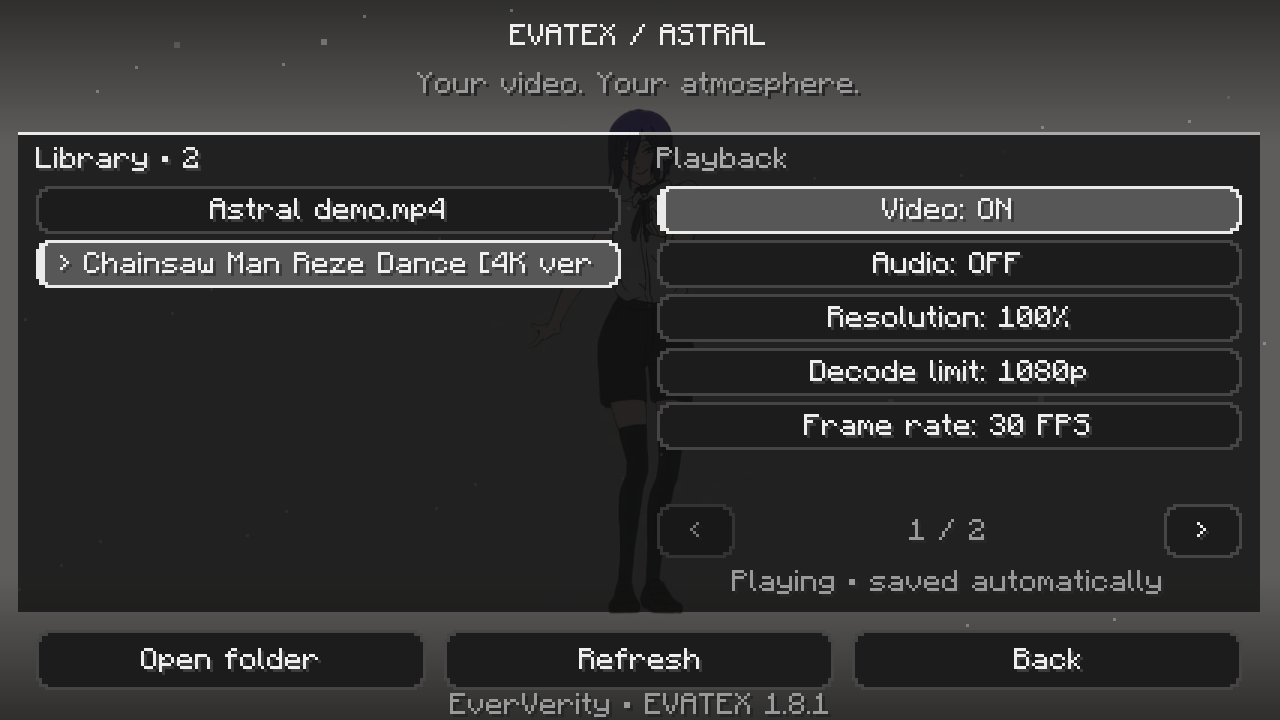
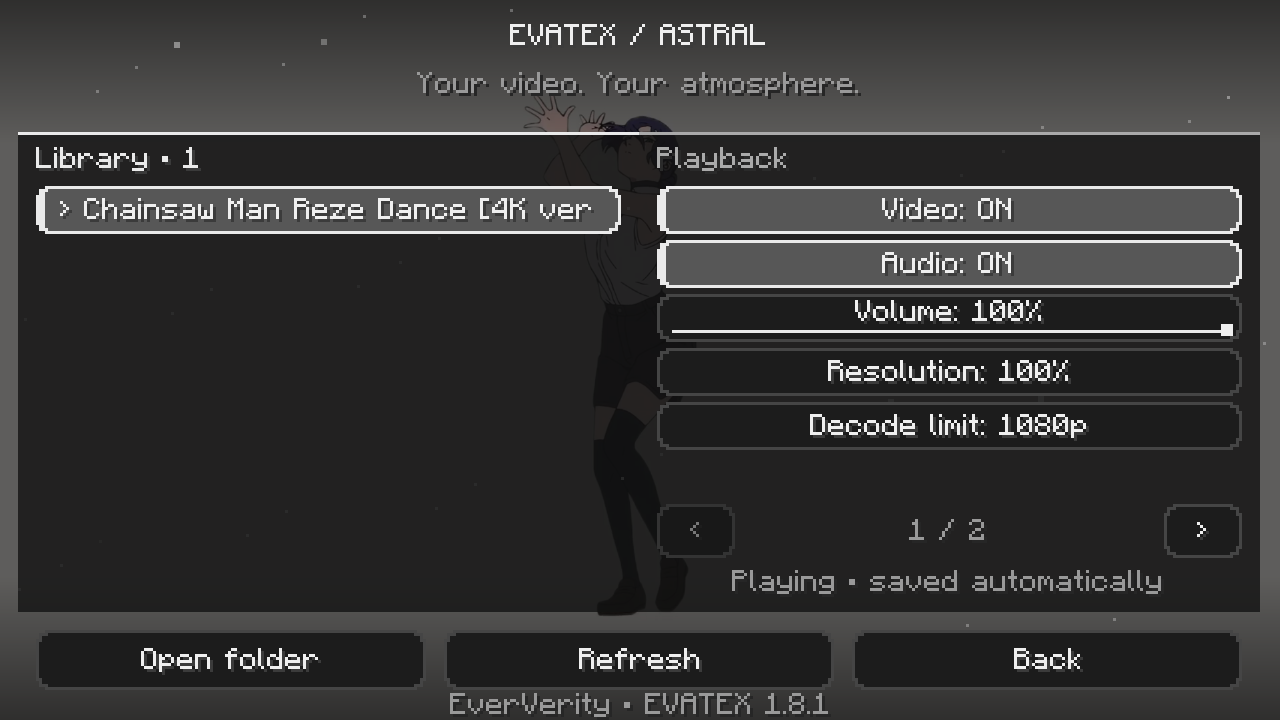
Document verified desktop playback and refresh Astral volume screenshot

diff --git a/VALIDATION.md b/VALIDATION.md
@@ -8,6 +8,8 @@ The user's supplied video is 1920×1080 H.264 at 60 FPS with stereo AAC audio, 1
 
 Sound uses stereo 48 kHz PCM from the same FFmpeg input as video. A 32 KiB bounded output buffer is primed before playback to absorb short scheduling delays. A continuous 12-second sound test records zero output-buffer underruns. An isolated PipeWire capture, routed using process-local `PIPEWIRE_NODE`, contains no unexpected silent gap of 50 ms or more in its approximately 11.6-second active interval; other desktop audio is excluded. Muting flushes and closes the device, while PCM is drained so video continues. Device initialization/write failures are handled without stopping video. Linux explicitly selects ALSA's default mixer so the user's PipeWire/PulseAudio output is respected.
 
+A four-frame bounded queue separates native pipe reads from presentation. The presentation clock preserves deadlines across normal OS timer oversleep and resets after substantial interruptions, preventing cumulative slow playback. The heap-based frame budget includes this queue.
+
 The 160×90 timing fixture separately validates 15/60 FPS pacing, looping, immutable frame ownership and cleanup. Tests also cover corrupt config values, invalid/Unicode paths, RGBA/ABGR channel order, portable folder commands, Turkish/English key parity and layout bounds across multiple dimensions.
 
 No 4K or 8K video is decoded or played on this computer. High-resolution checks use width/height integers only, verifying that 3840×2160 and 7680×4320 sources select the safe 1920×1080 output under default settings. This validates allocation policy, not real high-resolution codec performance. Larger source decoding still requires sufficient hardware.
@@ -22,7 +24,7 @@ Atlas Client 3.0.3 is checked separately on Minecraft 1.21.11 with its own Fabri
 
 Distributable jars contain Windows x64, Linux x64/ARM64 and macOS Intel/Apple Silicon engines. Compressed and extracted engine hashes are checked, and license/build information is included. Cached macOS/ARM binaries are checksum-verified before use; Linux permissions and incomplete extraction are repaired. Compatible system FFmpeg is a fallback if bundled execution fails.
 
-Only Linux x64 runtime is directly exercised on this host. Packaging does not prove Windows, macOS or ARM runtime behavior. GitHub Actions includes native decoder/config regressions on Ubuntu, Windows and macOS in addition to compilation/decoder checks for all Minecraft versions; consult actual workflow results before claiming those jobs passed. Desktop folder-manager behavior and full game UI on Windows/macOS still require those systems.
+Linux x64 full game UI and audio are exercised on this host. Native decoder/config regressions passed on Ubuntu x64, Windows x64 and macOS Apple Silicon in [GitHub Actions run 38072739304](https://github.com/ZeninKaanX/evatex-background-video-1.6.0/actions/runs/38072739304). These jobs use each host’s pinned engine and validate real 15/60 FPS decoding, looping and cleanup. Full game UI, physical audio devices and folder managers on Windows/macOS, plus Linux ARM64 and macOS Intel runtime, remain untested. Engine packaging and hashes alone do not prove those behaviors.
 
 ## Scope
 

diff --git a/COMPATIBILITY.md b/COMPATIBILITY.md
@@ -39,6 +39,6 @@ Resource loader v0 is embedded through 1.21.8. Both v0 and v1 are needed on 1.21
 
 Each listed version is compiled against its own official client and tested in a real isolated Linux x64 client. Checks exercise title video, Turkish Astral settings, animations disabled, multiplayer selection, return to the title, fallback with video disabled and decoder shutdown. Screenshots are inspected for visible video and interface layout. Logs and screenshots are produced under `build/smoke-<version>-standalone`; see `VALIDATION.md` for the test method and limits.
 
-Atlas Client 3.0.3 integration is validated separately on Minecraft 1.21.11 only. Atlas and its dependencies remain separate installations. Windows x64 decoder binaries are bundled but Windows runtime has not been tested here. macOS Intel/Apple Silicon and Linux ARM64 engines are also bundled and checked against pinned SHA256 hashes. Their binaries have not been executed here. Windows and macOS runtime validation still requires those operating systems.
+Atlas Client 3.0.3 integration is validated separately on Minecraft 1.21.11 only. Atlas and its dependencies remain separate installations. Windows x64 decoder binaries are bundled but Windows runtime has not been tested here. macOS Intel/Apple Silicon and Linux ARM64 engines are also bundled and checked against pinned SHA256 hashes. Their binaries have not been executed here. Native decoder/config regressions passed on Windows x64, Linux x64 and macOS Apple Silicon in GitHub Actions run 38072739304. Full Windows/macOS game UI and physical audio devices, macOS Intel and Linux ARM64 runtime remain untested.
 
 `scripts/build.py --all` builds this matrix with JDK 25. `scripts/check_packages.py` verifies every bundled archive, exact Minecraft/Java metadata, class versions, translations, embedded modules, FFmpeg provenance and SHA256 checksum. GitHub Actions compiles and runs decoder/configuration regressions for the same matrix; desktop GUI checks remain local.

diff --git a/MODRINTH_RELEASE.md b/MODRINTH_RELEASE.md
@@ -12,7 +12,7 @@ FFmpeg is included for Windows x64, Linux x64/ARM64 and macOS Intel/Apple Silico
 
 Twenty custom title splash messages are added to the existing Minecraft/resource-pack pool, including the requested creator, motivational and anime messages.
 
-All 24 exact-version Fabric builds from Minecraft 1.20 through 26.3 remain supported. Atlas Client 3.0.3 remains a separate optional mod on 1.21.11. Tests use the supplied 1080p clip on Linux, including live audio toggling, looping and menu continuity. No 4K or 8K videos are played during validation; high-resolution bounds are checked using dimensions only. Windows and macOS binaries are packaged and checksum-verified, but their runtime behavior is not tested on this Linux computer.
+All 24 exact-version Fabric builds from Minecraft 1.20 through 26.3 remain supported. Atlas Client 3.0.3 remains a separate optional mod on 1.21.11. Tests use the supplied 1080p clip on Linux, including live audio toggling, looping and menu continuity. No 4K or 8K videos are played during validation; high-resolution bounds are checked using dimensions only. Native decoder regressions also pass on Windows x64 and macOS Apple Silicon in GitHub Actions. Full game UI and physical audio-device tests are performed on Linux; Windows/macOS UI and other bundled architectures remain untested.
 
 ## Upload metadata
 
